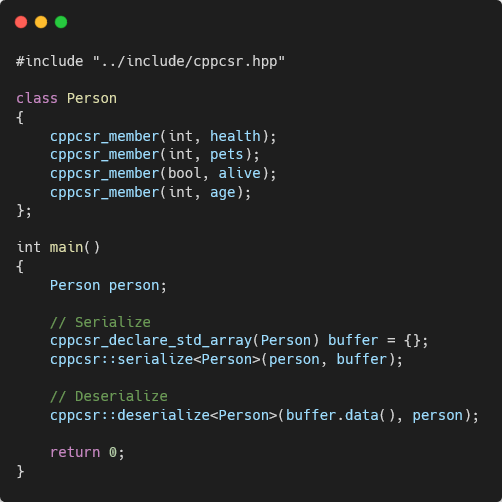
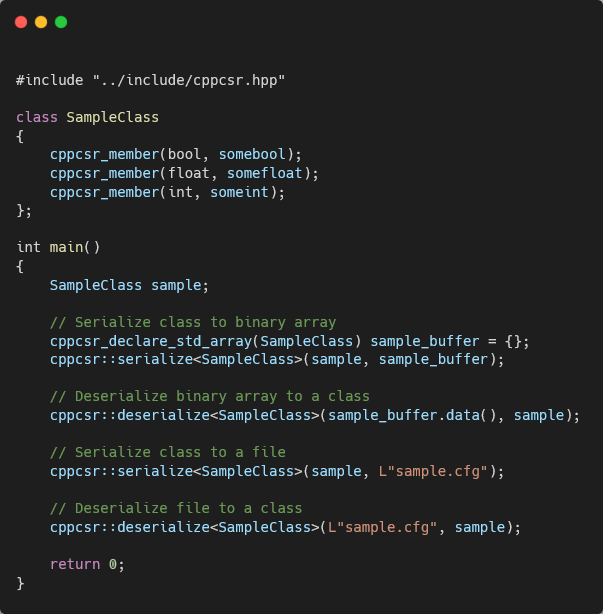
serialize/deserialize from/to a file

diff --git a/include/cppcsr.hpp b/include/cppcsr.hpp
@@ -4,14 +4,15 @@
 #include <cstdint>
 #include <fstream>
 #include <ostream>
+#include <filesystem>
 
-#define _cppcsr_m_metdataprefix "cppcsr"
+#define _cppcsr_m_metadataprefix "cppcsr"
 
 #define cppcsr_member(m_type, m_name) \
 private: \
 	struct \
 	{ \
-		const char name[sizeof(_cppcsr_m_metdataprefix ## "_" ## #m_type ## "_" ## #m_name)] = { _cppcsr_m_metdataprefix ## "_" ## #m_type ## "_" ## #m_name }; \
+		const char name[sizeof(_cppcsr_m_metadataprefix ## "_" ## #m_type ## "_" ## #m_name)] = { _cppcsr_m_metadataprefix ## "_" ## #m_type ## "_" ## #m_name }; \
 		const std::uint8_t size = sizeof(m_type); \
 	} cppcsr_metadata_##m_name; \
 public: \
@@ -51,8 +52,8 @@ namespace cppcsr
 			void        *mdata_value;
 
 			// Find cppcsr metadata
-			for (int mdata_idx = 0; mdata_idx < sizeof(_cppcsr_m_metdataprefix) - 1; mdata_idx++)
-				if (src[mdata_idx] != _cppcsr_m_metdataprefix[mdata_idx])
+			for (int mdata_idx = 0; mdata_idx < sizeof(_cppcsr_m_metadataprefix) - 1; mdata_idx++)
+				if (src[mdata_idx] != _cppcsr_m_metadataprefix[mdata_idx])
 					goto LBL_NEXT_SRC;
 
 			// On metdata match, find the same metadata in destination
@@ -85,5 +86,64 @@ namespace cppcsr
 		}
 
 		return true;
+	}
+
+	template <class T>
+	static bool serialize(T &object_to_serialize, const wchar_t *file_path)
+	{
+		cppcsr_declare_std_array(T) serialized_buffer = {};
+		if (!cppcsr::serialize<T>(object_to_serialize, serialized_buffer))
+			return false;
+
+		std::ofstream serialized_stream(file_path, std::ios::binary | std::ios::out);
+		if (!serialized_stream.is_open())
+			return false;
+
+		bool success_write = !!serialized_stream.write(reinterpret_cast<char *>(serialized_buffer.data()), serialized_buffer.size());
+		serialized_stream.close();
+
+		return success_write;
+	}
+
+	template <class T>
+	static bool deserialize(const wchar_t *file_path, T &destination)
+	{
+		bool is_success = false;
+		char *deserialized_buffer = nullptr;
+
+		char test[40] = { 0 };
+
+		if (!std::filesystem::exists(file_path))
+			return false;
+
+		std::ifstream deserialized_stream(file_path, std::ios::binary | std::ios::in);
+		if (!deserialized_stream.is_open())
+			return false;
+
+		std::size_t object_size = 0;
+		if (!deserialized_stream.read(reinterpret_cast<char *>(&object_size), sizeof(std::size_t)))
+			goto LBL_CLOSE_STREAM_FAILED;
+
+		if (object_size == 0)
+			goto LBL_CLOSE_STREAM_FAILED;
+		
+		deserialized_buffer = new char[object_size + sizeof(std::size_t)];
+		if (!deserialized_buffer)
+			goto LBL_CLOSE_STREAM_FAILED;
+
+		*reinterpret_cast<std::size_t*>(deserialized_buffer) = object_size;
+
+		if (!deserialized_stream.read(deserialized_buffer + sizeof(std::size_t), object_size))
+			goto LBL_FREE_ALLOC_FAILED;
+
+		if (!cppcsr::deserialize<T>(deserialized_buffer, destination))
+			goto LBL_FREE_ALLOC_FAILED;
+
+		is_success = true;
+		LBL_FREE_ALLOC_FAILED:
+		delete[] deserialized_buffer;
+		LBL_CLOSE_STREAM_FAILED:
+		deserialized_stream.close();
+		return is_success;
 	}
 }

diff --git a/example/main_file.cpp b/example/main_file.cpp
@@ -1,0 +1,51 @@
+
+/*
+Output:
+ 
+Age: 21
+Alive: 1
+
+Age: 30
+Alive: 0
+
+Age: 21
+Alive: 1
+*
+*/
+
+#include "../include/cppcsr.hpp"
+#include <iostream>
+
+class Person
+{
+    cppcsr_member(int, age);
+    cppcsr_member(bool, alive);
+};
+
+void print_person(Person &p)
+{
+    std::cout << "\n\nAge: " << p.age
+              << "\nAlive: " << p.alive;
+}
+
+int main()
+{
+    Person p;
+    p.age = 21;
+    p.alive = true;
+    print_person(p);
+
+    if (!cppcsr::serialize<Person>(p, L"person"))
+        return 1;
+
+    p.age = 30;
+    p.alive = false;
+    print_person(p);
+
+    if (!cppcsr::deserialize<Person>(L"person", p))
+        return 1;
+
+    print_person(p);
+
+    return 0;
+}
